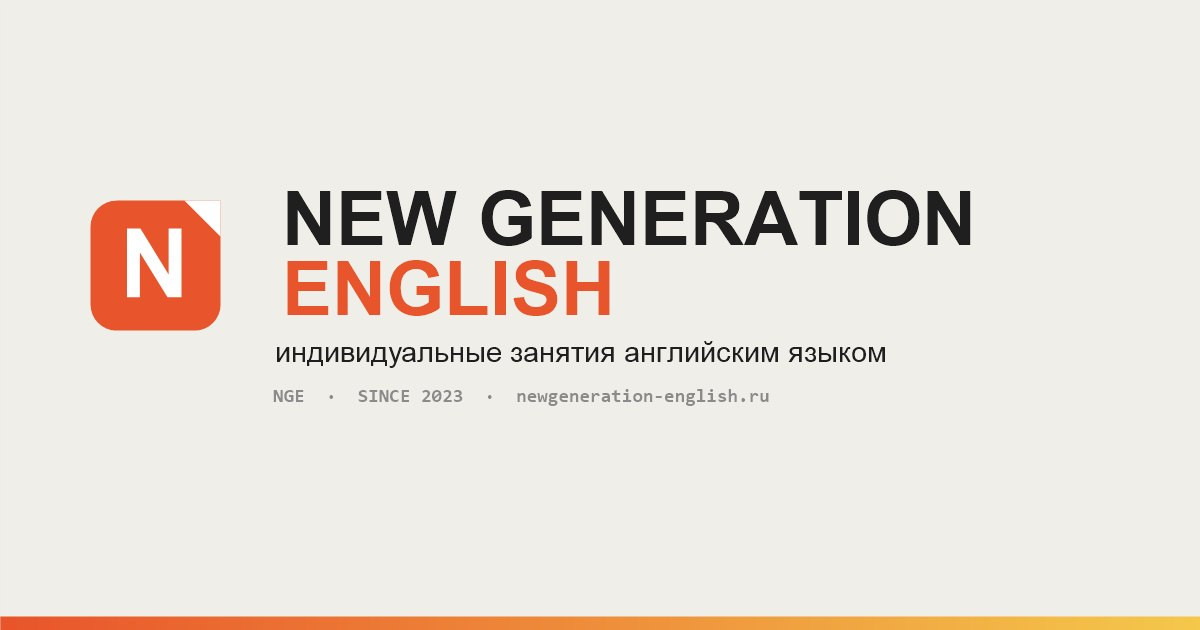
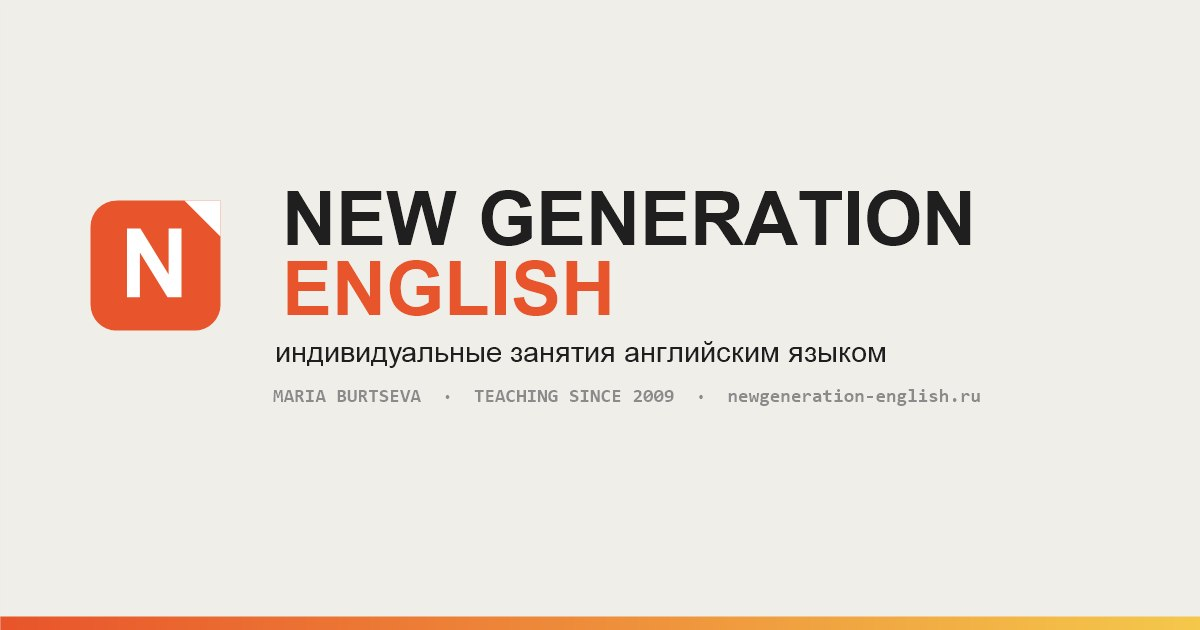
OG cover: TEACHING SINCE 2009 (real teaching experience)
- assets/og-cover.jpg: replace `NGE · SINCE 2023` line with`  `MARIA BURTSEVA · TEACHING SINCE 2009 · newgeneration-english.ru.`  `Reflects actual teaching experience (16+ years), not just the`  `brand registration year.
- All og:image / twitter:image refs bumped ?v=2 to ?v=3 to bust`  `Telegram preview cache.

Changed region(s): [[0.2158, 0.6032, 0.8017, 0.6635]]

diff --git a/index.html b/index.html
@@ -20,7 +20,7 @@
 <meta property="og:site_name" content="New Generation English">
 <meta property="og:title" content="New Generation English | Мария Бурцева — преподаватель английского">
 <meta property="og:description" content="Преподаватель английского с 15-летним опытом. Подготовка к ЕГЭ, ОГЭ, IELTS, разговорная практика. Индивидуальные, парные и групповые занятия.">
-<meta property="og:image" content="https://newgeneration-english.ru/assets/og-cover.jpg?v=2">
+<meta property="og:image" content="https://newgeneration-english.ru/assets/og-cover.jpg?v=3">
 <meta property="og:image:width" content="1200">
 <meta property="og:image:height" content="630">
 <meta property="og:image:alt" content="New Generation English — школа английского, Мария Бурцева">
@@ -34,7 +34,7 @@
 <meta name="twitter:card" content="summary_large_image">
 <meta name="twitter:title" content="New Generation English | Мария Бурцева">
 <meta name="twitter:description" content="Преподаватель английского с 15-летним опытом. ЕГЭ, ОГЭ, IELTS, разговорная практика.">
-<meta name="twitter:image" content="https://newgeneration-english.ru/assets/og-cover.jpg?v=2">
+<meta name="twitter:image" content="https://newgeneration-english.ru/assets/og-cover.jpg?v=3">
 
 <!-- Structured data (Person + EducationalOrganization) -->
 <script type="application/ld+json">
@@ -49,7 +49,7 @@
       "givenName": "Мария",
       "familyName": "Бурцева",
       "jobTitle": "Преподаватель английского языка",
-      "image": "https://newgeneration-english.ru/assets/og-cover.jpg?v=2",
+      "image": "https://newgeneration-english.ru/assets/og-cover.jpg?v=3",
       "sameAs": [
         "https://vk.com/new_generation_english",
         "https://www.youtube.com/@mariaburtseva9300",

diff --git a/travel.html b/travel.html
@@ -11,7 +11,7 @@
 <meta property="og:locale" content="ru_RU">
 <meta property="og:title" content="Путешествия · New Generation English">
 <meta property="og:description" content="Заметки о поездках, языке, культуре и впечатлениях.">
-<meta property="og:image" content="https://newgeneration-english.ru/assets/og-cover.jpg?v=2">
+<meta property="og:image" content="https://newgeneration-english.ru/assets/og-cover.jpg?v=3">
 <meta property="og:image:width" content="1200">
 <meta property="og:image:height" content="630">
 <meta property="og:image:alt" content="New Generation English — школа английского, Мария Бурцева">
@@ -22,7 +22,7 @@
 <meta name="twitter:card" content="summary_large_image">
 <meta name="twitter:title" content="Путешествия · New Generation English">
 <meta name="twitter:description" content="Заметки о поездках, языке, культуре и впечатлениях.">
-<meta name="twitter:image" content="https://newgeneration-english.ru/assets/og-cover.jpg?v=2">
+<meta name="twitter:image" content="https://newgeneration-english.ru/assets/og-cover.jpg?v=3">
 
 <!-- Structured data -->
 <script type="application/ld+json">
@@ -43,7 +43,7 @@
   "description": "Опыт жизни и работы в трёх странах — как путешествия влияют на преподавание языка и взгляд на культуру.",
   "url": "https://newgeneration-english.ru/travel.html",
   "inLanguage": "ru-RU",
-  "image": "https://newgeneration-english.ru/assets/og-cover.jpg?v=2",
+  "image": "https://newgeneration-english.ru/assets/og-cover.jpg?v=3",
   "author": {"@type": "Person", "name": "Мария Витальевна Бурцева", "url": "https://newgeneration-english.ru/about-project.html"},
   "publisher": {"@type": "EducationalOrganization", "name": "New Generation English", "url": "https://newgeneration-english.ru/"}
 }

diff --git a/about-project.html b/about-project.html
@@ -18,7 +18,7 @@
 <meta property="og:site_name" content="New Generation English">
 <meta property="og:title" content="О проекте · New Generation English">
 <meta property="og:description" content="О проекте New Generation English: биография преподавателя, идея нейрошколы, документы и кабинеты внутри образовательной экосистемы.">
-<meta property="og:image" content="https://newgeneration-english.ru/assets/og-cover.jpg?v=2">
+<meta property="og:image" content="https://newgeneration-english.ru/assets/og-cover.jpg?v=3">
 <meta property="og:image:width" content="1200">
 <meta property="og:image:height" content="630">
 <meta property="og:image:alt" content="New Generation English — школа английского, Мария Бурцева">
@@ -32,7 +32,7 @@
 <meta name="twitter:card" content="summary_large_image">
 <meta name="twitter:title" content="О проекте · New Generation English">
 <meta name="twitter:description" content="О проекте New Generation English: биография преподавателя, идея нейрошколы, документы и кабинеты внутри образовательной экосистемы.">
-<meta name="twitter:image" content="https://newgeneration-english.ru/assets/og-cover.jpg?v=2">
+<meta name="twitter:image" content="https://newgeneration-english.ru/assets/og-cover.jpg?v=3">
 
 <!-- Structured data -->
 <script type="application/ld+json">

diff --git a/programs.html b/programs.html
@@ -18,7 +18,7 @@
 <meta property="og:site_name" content="New Generation English">
 <meta property="og:title" content="Программы · New Generation English">
 <meta property="og:description" content="Программы обучения New Generation English: экзамены, общий английский, профессиональные направления и ускоренные форматы.">
-<meta property="og:image" content="https://newgeneration-english.ru/assets/og-cover.jpg?v=2">
+<meta property="og:image" content="https://newgeneration-english.ru/assets/og-cover.jpg?v=3">
 <meta property="og:image:width" content="1200">
 <meta property="og:image:height" content="630">
 <meta property="og:image:alt" content="New Generation English — школа английского, Мария Бурцева">
@@ -32,7 +32,7 @@
 <meta name="twitter:card" content="summary_large_image">
 <meta name="twitter:title" content="Программы · New Generation English">
 <meta name="twitter:description" content="Программы обучения New Generation English: экзамены, общий английский, профессиональные направления и ускоренные форматы.">
-<meta name="twitter:image" content="https://newgeneration-english.ru/assets/og-cover.jpg?v=2">
+<meta name="twitter:image" content="https://newgeneration-english.ru/assets/og-cover.jpg?v=3">
 
 <!-- Structured data -->
 <script type="application/ld+json">

diff --git a/blog.html b/blog.html
@@ -11,7 +11,7 @@
 <meta property="og:locale" content="ru_RU">
 <meta property="og:title" content="Дневник и блог · New Generation English">
 <meta property="og:description" content="Дневник преподавателя — про английский, путешествия, нейронки, авторство, мой путь и педагогическую династию.">
-<meta property="og:image" content="https://newgeneration-english.ru/assets/og-cover.jpg?v=2">
+<meta property="og:image" content="https://newgeneration-english.ru/assets/og-cover.jpg?v=3">
 <meta property="og:image:width" content="1200">
 <meta property="og:image:height" content="630">
 <meta property="og:image:alt" content="New Generation English — школа английского, Мария Бурцева">
@@ -22,7 +22,7 @@
 <meta name="twitter:card" content="summary_large_image">
 <meta name="twitter:title" content="Дневник и блог · New Generation English">
 <meta name="twitter:description" content="Дневник преподавателя — про английский, путешествия, нейронки, авторство, мой путь и педагогическую династию.">
-<meta name="twitter:image" content="https://newgeneration-english.ru/assets/og-cover.jpg?v=2">
+<meta name="twitter:image" content="https://newgeneration-english.ru/assets/og-cover.jpg?v=3">
 
 <!-- Structured data -->
 <script type="application/ld+json">

diff --git a/conditions.html b/conditions.html
@@ -11,7 +11,7 @@
 <meta property="og:locale" content="ru_RU">
 <meta property="og:title" content="Условия · New Generation English">
 <meta property="og:description" content="Формат работы, диагностика, организация занятий и документы преподавателя New Generation English.">
-<meta property="og:image" content="https://newgeneration-english.ru/assets/og-cover.jpg?v=2">
+<meta property="og:image" content="https://newgeneration-english.ru/assets/og-cover.jpg?v=3">
 <meta property="og:image:width" content="1200">
 <meta property="og:image:height" content="630">
 <meta property="og:image:alt" content="New Generation English — школа английского, Мария Бурцева">
@@ -22,7 +22,7 @@
 <meta name="twitter:card" content="summary_large_image">
 <meta name="twitter:title" content="Условия · New Generation English">
 <meta name="twitter:description" content="Формат работы, диагностика, организация занятий и документы преподавателя New Generation English.">
-<meta name="twitter:image" content="https://newgeneration-english.ru/assets/og-cover.jpg?v=2">
+<meta name="twitter:image" content="https://newgeneration-english.ru/assets/og-cover.jpg?v=3">
 
 <!-- Structured data -->
 <script type="application/ld+json">

diff --git a/cases.html b/cases.html
@@ -18,7 +18,7 @@
 <meta property="og:site_name" content="New Generation English">
 <meta property="og:title" content="Кейсы и видео · New Generation English">
 <meta property="og:description" content="Кейсы, отзывы, результаты и учебная среда New Generation English.">
-<meta property="og:image" content="https://newgeneration-english.ru/assets/og-cover.jpg?v=2">
+<meta property="og:image" content="https://newgeneration-english.ru/assets/og-cover.jpg?v=3">
 <meta property="og:image:width" content="1200">
 <meta property="og:image:height" content="630">
 <meta property="og:image:alt" content="New Generation English — школа английского, Мария Бурцева">
@@ -32,7 +32,7 @@
 <meta name="twitter:card" content="summary_large_image">
 <meta name="twitter:title" content="Кейсы и видео · New Generation English">
 <meta name="twitter:description" content="Кейсы, отзывы, результаты и учебная среда New Generation English.">
-<meta name="twitter:image" content="https://newgeneration-english.ru/assets/og-cover.jpg?v=2">
+<meta name="twitter:image" content="https://newgeneration-english.ru/assets/og-cover.jpg?v=3">
 
 <!-- Structured data -->
 <script type="application/ld+json">
